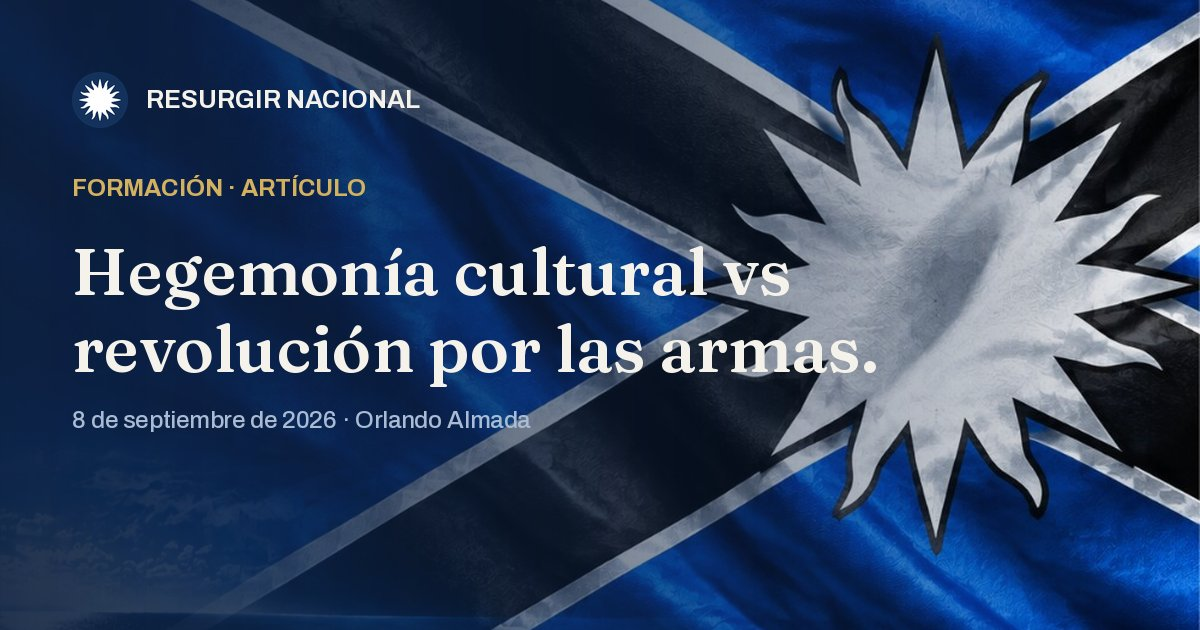
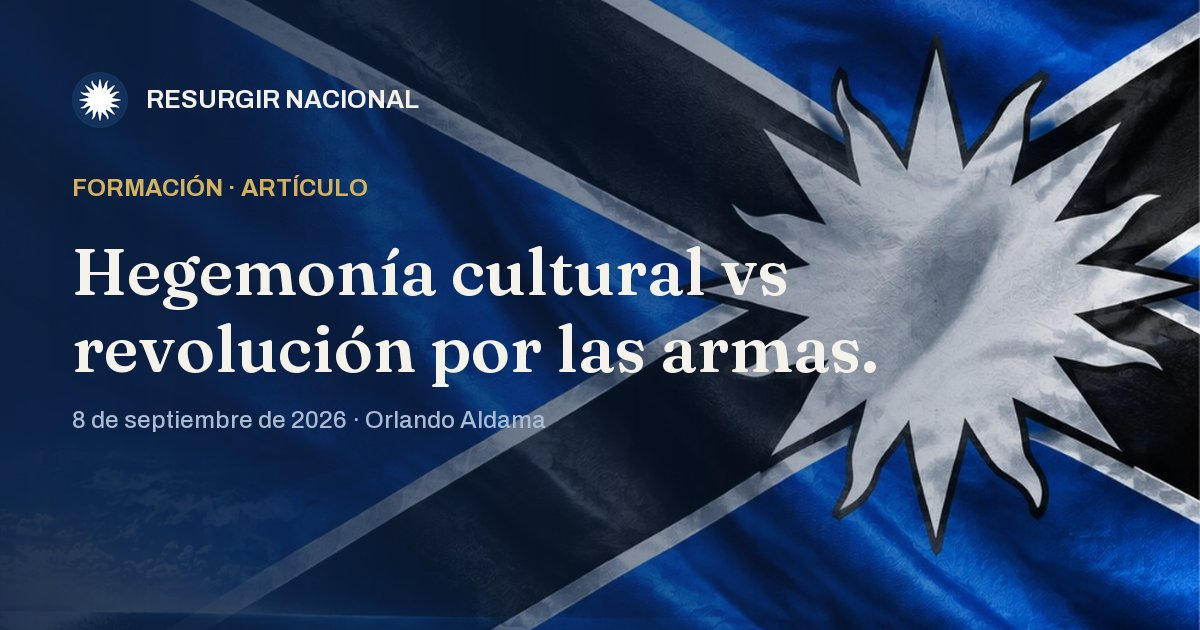
Formación: corrige el apellido del autor (Orlando Aldama) en dos artículos

diff --git a/articulos.html b/articulos.html
@@ -443,13 +443,13 @@
           <a class="art-row" href="fundamentos-politicos.html" data-s="Fundamentos de Política Sobre los fundamentos de la Política Denes Martos"><span class="art-row__date">13 sep 2026</span><span class="art-row__title">Fundamentos de Política</span><span class="art-row__sum">Sobre los fundamentos de la Política</span></a>
           <a class="art-row" href="sobre-el-espiritu-del-fascismo.html" data-s="La ideología fascista y el mundo académico. Sobre la visión del fascismo en el mundo académico. Carlos Videla"><span class="art-row__date">13 sep 2026</span><span class="art-row__title">La ideología fascista y el mundo académico.</span><span class="art-row__sum">Sobre la visión del fascismo en el mundo académico.</span></a>
           <a class="art-row" href="sobre-stalin-y-hitler.html" data-s="Hitler, Stalin y la segunda guerra mundial... Sobre el trasfondo del inicio de la guerra entre Stalin y Hitler. Denes Martos"><span class="art-row__date">13 sep 2026</span><span class="art-row__title">Hitler, Stalin y la segunda guerra mundial...</span><span class="art-row__sum">Sobre el trasfondo del inicio de la guerra entre Stalin y Hitler.</span></a>
-          <a class="art-row" href="hegemonia-cultural-uruguay.html" data-s="Hegemonía cultural vs revolución por las armas. El caos político que ves en universidades, en redes sociales, en reuniones de trabajo no es histeria colectiva. No es una generación de jóvenes que perdió la cabeza. No es espontáneo. Es protocolo. Está en un libro. Fue escrito en 1971 y quien lo escribió te explicó el sistema completo antes de morir. Orlando Almada"><span class="art-row__date">8 sep 2026</span><span class="art-row__title">Hegemonía cultural vs revolución por las armas.</span><span class="art-row__sum">El caos político que ves en universidades, en redes sociales, en reuniones de trabajo no es histeria colectiva. No es una generación de jóvenes que perdió la cabeza. No es espontáneo. Es protocolo. Está en un libro. Fue escrito en 1971 y quien lo escribió te explicó el sistema completo antes de morir.</span></a>
+          <a class="art-row" href="hegemonia-cultural-uruguay.html" data-s="Hegemonía cultural vs revolución por las armas. El caos político que ves en universidades, en redes sociales, en reuniones de trabajo no es histeria colectiva. No es una generación de jóvenes que perdió la cabeza. No es espontáneo. Es protocolo. Está en un libro. Fue escrito en 1971 y quien lo escribió te explicó el sistema completo antes de morir. Orlando Aldama"><span class="art-row__date">8 sep 2026</span><span class="art-row__title">Hegemonía cultural vs revolución por las armas.</span><span class="art-row__sum">El caos político que ves en universidades, en redes sociales, en reuniones de trabajo no es histeria colectiva. No es una generación de jóvenes que perdió la cabeza. No es espontáneo. Es protocolo. Está en un libro. Fue escrito en 1971 y quien lo escribió te explicó el sistema completo antes de morir.</span></a>
           <a class="art-row" href="inmigracion-en-uruguay.html" data-s="Sobre la inmigración Sobre el cristianismo y el derecho a la preservación nacional. Juan Hernandorena."><span class="art-row__date">8 sep 2026</span><span class="art-row__title">Sobre la inmigración</span><span class="art-row__sum">Sobre el cristianismo y el derecho a la preservación nacional.</span></a>
           <a class="art-row" href="revisionismo-historico-uruguay.html" data-s="Sobre la Segunda Guerra Mundial... El primero de septiembre se cumplen 85 años del inicio de la Segunda Guerra Mundial. Este hecho y su desenlace -la victoria de los aliados- marcó un derrotero religioso, cultural, político, social y económico que el mundo padece hasta nuestros días. Fue el triunfo de las democracias liberales, masónicas y relativistas; fue el triunfo del comunismo ateo. Fue la “Derrota Mundial”, según trillada y plástica expresión de Don Salvador Borrego. Los perdidosos nacionalismos fueron la expresión de vida postrera, las últimas bocanadas de aire, de Occidente. Tras su hundimiento, éste quedose sin defensas. Al poco tiempo, infiltrada ya desde hace décadas, la Iglesia Católica coronaría su eclipse con el Concilio Vaticano Segundo (1962-1965). Los principios masónicos y liberales penetraron, ya abiertamente, en el propio seno eclesial. Bruno Acosta Pastore"><span class="art-row__date">5 sep 2026</span><span class="art-row__title">Sobre la Segunda Guerra Mundial...</span><span class="art-row__sum">El primero de septiembre se cumplen 85 años del inicio de la Segunda Guerra Mundial. Este hecho y su desenlace -la victoria de los aliados- marcó un derrotero religioso, cultural, político, social y económico que el mundo padece hasta nuestros días. Fue el triunfo de las democracias liberales, masónicas y relativistas; fue el triunfo del comunismo ateo. Fue la “Derrota Mundial”, según trillada y plástica expresión de Don Salvador Borrego. Los perdidosos nacionalismos fueron la expresión de vida postrera, las últimas bocanadas de aire, de Occidente. Tras su hundimiento, éste quedose sin defensas. Al poco tiempo, infiltrada ya desde hace décadas, la Iglesia Católica coronaría su eclipse con el Concilio Vaticano Segundo (1962-1965). Los principios masónicos y liberales penetraron, ya abiertamente, en el propio seno eclesial.</span></a>
           <a class="art-row" href="izquierda-y-derecha-en-uruguay.html" data-s="Más allá de la izquierda y la derecha. Durante la contienda electoral la simplificación es la norma. El énfasis en el marketing y la ingeniería electoral busca situarnos por fuera del debate de ideas. Mediante la construcción de narrativas que priorizan la identificación emocional frente al debate racional se asumen determinadas categorías, que en muchos casos pueden ser, en realidad, más iguales de lo que parecen absolutamente inválidas. Este trabajo pretende ser un aporte que complejiza un espacio común en el discurso político: el de las categorías de izquierda y derecha. Facundo Cuadro."><span class="art-row__date">4 sep 2026</span><span class="art-row__title">Más allá de la izquierda y la derecha.</span><span class="art-row__sum">Durante la contienda electoral la simplificación es la norma. El énfasis en el marketing y la ingeniería electoral busca situarnos por fuera del debate de ideas. Mediante la construcción de narrativas que priorizan la identificación emocional frente al debate racional se asumen determinadas categorías, que en muchos casos pueden ser, en realidad, más iguales de lo que parecen absolutamente inválidas. Este trabajo pretende ser un aporte que complejiza un espacio común en el discurso político: el de las categorías de izquierda y derecha.</span></a>
           <a class="art-row" href="gabriel-terra-revolucion-de-marzo.html" data-s="Gabriel Terra: Jefe de la Revolución de Marzo. La tradición es la memoria de los pueblos y siendo la memoria definida como la capacidad de almacenar, codificar y recuperar información, es evidente que la salud de un pueblo se puede evaluar en su memoria colectiva, sus tradiciones y ritos. Esta redacción es una expresión de la conmemoración de los héroes que nos precedieron en el camino recorrido por nuestro mundo y nuestro pueblo, aquellos que lideraron los destinos de la Nación Oriental tras la Revolución de Marzo, conduciéndola a su época de mayor esplendor hasta el presente. Nacionalista en lucha."><span class="art-row__date">3 sep 2026</span><span class="art-row__title">Gabriel Terra: Jefe de la Revolución de Marzo.</span><span class="art-row__sum">La tradición es la memoria de los pueblos y siendo la memoria definida como la capacidad de almacenar, codificar y recuperar información, es evidente que la salud de un pueblo se puede evaluar en su memoria colectiva, sus tradiciones y ritos. Esta redacción es una expresión de la conmemoración de los héroes que nos precedieron en el camino recorrido por nuestro mundo y nuestro pueblo, aquellos que lideraron los destinos de la Nación Oriental tras la Revolución de Marzo, conduciéndola a su época de mayor esplendor hasta el presente.</span></a>
           <a class="art-row" href="el-aborto-en-uruguay.html" data-s="Aborto, el grito silenciado del Uruguay. Uruguay legalizó el aborto hablando de libertad; una libertad que tuvo el costo de conducirnos a ser uno de los países con menos nacimientos de América. Bajo el argumento del progreso, la cuestión respecto al aborto se adentró en la conciencia de los uruguayos a tal punto que hoy ir contra esta práctica es visto como algo digno de una persona que opta por el atraso. Pablo Carrasco"><span class="art-row__date">2 sep 2026</span><span class="art-row__title">Aborto, el grito silenciado del Uruguay.</span><span class="art-row__sum">Uruguay legalizó el aborto hablando de libertad; una libertad que tuvo el costo de conducirnos a ser uno de los países con menos nacimientos de América. Bajo el argumento del progreso, la cuestión respecto al aborto se adentró en la conciencia de los uruguayos a tal punto que hoy ir contra esta práctica es visto como algo digno de una persona que opta por el atraso.</span></a>
-          <a class="art-row" href="patriotismo-en-uruguay.html" data-s="Resignificación de los valores patrióticos. La resignificación de los valores patrióticos a menudo es percibida como un proceso de denigración. Los símbolos, rituales y narrativas que históricamente han cimentado el sentimiento de pertenencia a una nación, como el himno, la bandera, los héroes nacionales y la historia compartida son hoy objeto de un intenso escrutinio crítico. Orlando Almada."><span class="art-row__date">2 sep 2026</span><span class="art-row__title">Resignificación de los valores patrióticos.</span><span class="art-row__sum">La resignificación de los valores patrióticos a menudo es percibida como un proceso de denigración. Los símbolos, rituales y narrativas que históricamente han cimentado el sentimiento de pertenencia a una nación, como el himno, la bandera, los héroes nacionales y la historia compartida son hoy objeto de un intenso escrutinio crítico.</span></a>
+          <a class="art-row" href="patriotismo-en-uruguay.html" data-s="Resignificación de los valores patrióticos. La resignificación de los valores patrióticos a menudo es percibida como un proceso de denigración. Los símbolos, rituales y narrativas que históricamente han cimentado el sentimiento de pertenencia a una nación, como el himno, la bandera, los héroes nacionales y la historia compartida son hoy objeto de un intenso escrutinio crítico. Orlando Aldama."><span class="art-row__date">2 sep 2026</span><span class="art-row__title">Resignificación de los valores patrióticos.</span><span class="art-row__sum">La resignificación de los valores patrióticos a menudo es percibida como un proceso de denigración. Los símbolos, rituales y narrativas que históricamente han cimentado el sentimiento de pertenencia a una nación, como el himno, la bandera, los héroes nacionales y la historia compartida son hoy objeto de un intenso escrutinio crítico.</span></a>
           <a class="art-row" href="tercera-posicion-en-uruguay.html" data-s="Fascismo Oriental. Hoy desde nuestra perspectiva de más de 100 años después, y en nuestra nación Uruguay, por supuesto que es una ideología vigente, solamente necesita una adaptación y eso es lo que he teorizado personalmente desde mi punto de vista a nuestro tiempo y país. José Otaiza"><span class="art-row__date">1 sep 2026</span><span class="art-row__title">Fascismo Oriental.</span><span class="art-row__sum">Hoy desde nuestra perspectiva de más de 100 años después, y en nuestra nación Uruguay, por supuesto que es una ideología vigente, solamente necesita una adaptación y eso es lo que he teorizado personalmente desde mi punto de vista a nuestro tiempo y país.</span></a>
         </div>
         <h2 class="art-month" id="m-2026-08">Agosto 2026</h2>

diff --git a/hegemonia-cultural-uruguay.html b/hegemonia-cultural-uruguay.html
@@ -327,7 +327,7 @@
     .art-row__sum { grid-column: 1; }
   }
 </style>
-<script type="application/ld+json">{"@context": "https://schema.org", "@type": "Article", "headline": "Hegemonía cultural vs revolución por las armas.", "description": "El caos político que ves en universidades, en redes sociales, en reuniones de trabajo no es histeria colectiva. No es una generación de jóvenes que perdió la cabeza. No es espontáneo. Es protocolo. Está en un libro. Fue escrito en 1971 y quien lo escribió te explicó el sistema completo antes de morir.", "image": "https://resurgirnacionaluy.org/og/hegemonia-cultural-uruguay.jpg", "mainEntityOfPage": "https://resurgirnacionaluy.org/hegemonia-cultural-uruguay.html", "inLanguage": "es-UY", "author": {"@type": "Person", "name": "Orlando Almada"}, "publisher": {"@type": "Organization", "name": "Resurgir Nacional", "logo": {"@type": "ImageObject", "url": "https://resurgirnacionaluy.org/favicon-192.png"}}, "datePublished": "2026-09-08"}</script>
+<script type="application/ld+json">{"@context": "https://schema.org", "@type": "Article", "headline": "Hegemonía cultural vs revolución por las armas.", "description": "El caos político que ves en universidades, en redes sociales, en reuniones de trabajo no es histeria colectiva. No es una generación de jóvenes que perdió la cabeza. No es espontáneo. Es protocolo. Está en un libro. Fue escrito en 1971 y quien lo escribió te explicó el sistema completo antes de morir.", "image": "https://resurgirnacionaluy.org/og/hegemonia-cultural-uruguay.jpg", "mainEntityOfPage": "https://resurgirnacionaluy.org/hegemonia-cultural-uruguay.html", "inLanguage": "es-UY", "author": {"@type": "Person", "name": "Orlando Aldama"}, "publisher": {"@type": "Organization", "name": "Resurgir Nacional", "logo": {"@type": "ImageObject", "url": "https://resurgirnacionaluy.org/favicon-192.png"}}, "datePublished": "2026-09-08"}</script>
 </head>
 <body style="margin:0">
 
@@ -408,12 +408,12 @@
     <section>
       <span class="label">Formación · Artículo</span>
       <h1>Hegemonía cultural vs revolución por las armas.</h1>
-      <p class="doc-lead">8 de septiembre de 2026 · Orlando Almada</p>
+      <p class="doc-lead">8 de septiembre de 2026 · Orlando Aldama</p>
       <button type="button" class="share-btn" aria-label="Compartir este artículo"><svg viewBox="0 0 24 24" aria-hidden="true"><path d="M18 16.08c-.76 0-1.44.3-1.96.77L8.91 12.7c.05-.23.09-.46.09-.7s-.04-.47-.09-.7l7.05-4.11c.54.5 1.25.81 2.04.81 1.66 0 3-1.34 3-3s-1.34-3-3-3-3 1.34-3 3c0 .24.04.47.09.7L8.04 9.81C7.5 9.31 6.79 9 6 9c-1.66 0-3 1.34-3 3s1.34 3 3 3c.79 0 1.5-.31 2.04-.81l7.12 4.16c-.05.21-.08.43-.08.65 0 1.61 1.31 2.92 2.92 2.92 1.61 0 2.92-1.31 2.92-2.92s-1.31-2.92-2.92-2.92z"/></svg>Compartir</button>
     </section>
     <section>
       <div class="prose article-body">
-<p>(De entre los muchos materiales que recibimos de amigos o colaboradores, compartimos este texto perteneciente a Orlando Almada, con su debida autorización)</p>
+<p>(De entre los muchos materiales que recibimos de amigos o colaboradores, compartimos este texto perteneciente a Orlando Aldama, con su debida autorización)</p>
 <p>El caos político que ves en universidades, en redes sociales, en reuniones de trabajo no es histeria colectiva. No es una generación de jóvenes que perdió la cabeza. No es espontáneo. Es protocolo. Está en un libro. Fue escrito en 1971 y quien lo escribió te explicó el sistema completo antes de morir.</p>
 <p>Probablemente conoces la sensación: estás en una reunión, en clase, en una cena y de pronto alguien te señala a ti, no al argumento que hiciste, a ti. Y la conversación deja de ser una discusión de ideas para convertirse en un juicio moral sobre tu persona. O ves cómo una figura pública es destruida en cuestión de horas; primero el ataque, luego el coro, luego el silencio de quienes sabían que el ataque era injusto, pero decidieron no decir nada. O noticias de que una institución que funcionaba durante décadas —una escuela, un departamento, una empresa— de pronto emite comunicados que parecen escritos por el mismo departamento de recursos humanos ideológico en todas partes.</p>
 <p>Lo que experimentas como caos tiene arquitecto; lo que parece histeria tiene reglas; lo que parece emergencia moral tiene estrategia. Hoy vas a conocer el manual, quién lo escribió, quién lo estudió, cuáles son las reglas exactas y —esto es lo que cambia la ecuación— cómo responder a cada una. Al terminar este video vas a poder identificar qué táctica te están aplicando en el momento en que ocurre. Eso no te hace invulnerable, pero te saca del lugar más peligroso en que puedes estar: el de alguien que no sabe que hay un sistema operando sobre él.</p>
@@ -444,7 +444,7 @@
 <p>El ridículo que no genera indignación es ridículo inerte. La personalización que se nombra en voz alta pierde su efecto paralizante. La amenaza que se evalúa serenamente, en lugar de temerse a ciegas, pierde su poder de autocensura. No vas a ganar cada conversación con esto, no todo debate se gana en tiempo real, pero sí vas a dejar de experimentar la presión ideológica como fenómeno atmosférico incomprensible y empezar a verla como lo que es: un conjunto de tácticas con nombre, origen y mecanismo conocido.</p>
 <p>Scruton pasó décadas tratando de recuperar el lenguaje, de devolver al debate público las palabras que el sistema había capturado o ridiculizado hasta volverlas impronunciables. Esta recuperación comienza por entender qué fue lo que se perdió y cómo se perdió. Hoy tienes una parte de esa historia. La pregunta que queda y que no tiene respuesta fácil es esta: si el sistema tardó 50 años en producir el oppositional consensus que conocemos, ¿qué se necesita para revertirlo? ¿Basta conocer las tácticas o hace falta algo más profundo, una reconstrucción de las instituciones que el sistema tomó, no solo una resistencia táctica a quienes las operan? Eso es para el próximo video.</p>
 <p>Si lo que vimos aquí te movió, lo que está en la descripción va más profundo. El Atlas de pensadores que tenemos disponible cubre a Alinsky en detalle: las 13 tácticas completas con sus contextos históricos, la genealogía de cómo llegaron al wokeismo contemporáneo y las contramedidas desarrolladas para cada una.</p>
-<p>-Orlando Almada.</p>
+<p>-Orlando Aldama.</p>
       </div>
       <p style="margin-top:2.5rem"><a href="cultura-nacional-uruguaya.html">← Volver a Formación</a></p>
     </section>

diff --git a/patriotismo-en-uruguay.html b/patriotismo-en-uruguay.html
@@ -327,7 +327,7 @@
     .art-row__sum { grid-column: 1; }
   }
 </style>
-<script type="application/ld+json">{"@context": "https://schema.org", "@type": "Article", "headline": "Resignificación de los valores patrióticos.", "description": "La resignificación de los valores patrióticos a menudo es percibida como un proceso de denigración. Los símbolos, rituales y narrativas que históricamente han cimentado el sentimiento de pertenencia a una nación, como el himno, la bandera, los héroes nacionales y la historia compartida son hoy objeto de un intenso escrutinio crítico.", "image": "https://resurgirnacionaluy.org/og/patriotismo-en-uruguay.jpg", "mainEntityOfPage": "https://resurgirnacionaluy.org/patriotismo-en-uruguay.html", "inLanguage": "es-UY", "author": {"@type": "Person", "name": "Orlando Almada."}, "publisher": {"@type": "Organization", "name": "Resurgir Nacional", "logo": {"@type": "ImageObject", "url": "https://resurgirnacionaluy.org/favicon-192.png"}}, "datePublished": "2026-09-02"}</script>
+<script type="application/ld+json">{"@context": "https://schema.org", "@type": "Article", "headline": "Resignificación de los valores patrióticos.", "description": "La resignificación de los valores patrióticos a menudo es percibida como un proceso de denigración. Los símbolos, rituales y narrativas que históricamente han cimentado el sentimiento de pertenencia a una nación, como el himno, la bandera, los héroes nacionales y la historia compartida son hoy objeto de un intenso escrutinio crítico.", "image": "https://resurgirnacionaluy.org/og/patriotismo-en-uruguay.jpg", "mainEntityOfPage": "https://resurgirnacionaluy.org/patriotismo-en-uruguay.html", "inLanguage": "es-UY", "author": {"@type": "Person", "name": "Orlando Aldama."}, "publisher": {"@type": "Organization", "name": "Resurgir Nacional", "logo": {"@type": "ImageObject", "url": "https://resurgirnacionaluy.org/favicon-192.png"}}, "datePublished": "2026-09-02"}</script>
 </head>
 <body style="margin:0">
 
@@ -408,12 +408,12 @@
     <section>
       <span class="label">Formación · Artículo</span>
       <h1>Resignificación de los valores patrióticos.</h1>
-      <p class="doc-lead">2 de septiembre de 2026 · Orlando Almada.</p>
+      <p class="doc-lead">2 de septiembre de 2026 · Orlando Aldama.</p>
       <button type="button" class="share-btn" aria-label="Compartir este artículo"><svg viewBox="0 0 24 24" aria-hidden="true"><path d="M18 16.08c-.76 0-1.44.3-1.96.77L8.91 12.7c.05-.23.09-.46.09-.7s-.04-.47-.09-.7l7.05-4.11c.54.5 1.25.81 2.04.81 1.66 0 3-1.34 3-3s-1.34-3-3-3-3 1.34-3 3c0 .24.04.47.09.7L8.04 9.81C7.5 9.31 6.79 9 6 9c-1.66 0-3 1.34-3 3s1.34 3 3 3c.79 0 1.5-.31 2.04-.81l7.12 4.16c-.05.21-.08.43-.08.65 0 1.61 1.31 2.92 2.92 2.92 1.61 0 2.92-1.31 2.92-2.92s-1.31-2.92-2.92-2.92z"/></svg>Compartir</button>
     </section>
     <section>
       <div class="prose article-body">
-<p>(De entre los muchos materiales que recibimos de amigos o colaboradores, compartimos este texto perteneciente a Orlando Almada, con su debida autorización)</p>
+<p>(De entre los muchos materiales que recibimos de amigos o colaboradores, compartimos este texto perteneciente a Orlando Aldama, con su debida autorización)</p>
 <p>La resignificación de los valores patrióticos a menudo es percibida como un proceso de denigración. Los símbolos, rituales y narrativas que históricamente han cimentado el sentimiento de pertenencia a una nación, como el himno, la bandera, los héroes nacionales y la historia compartida son hoy objeto de un intenso escrutinio crítico.</p>
 <p>Esta crítica surge de la reevaluación de los fundamentos históricos de la nación-estado, influenciados por una filosofía política que no ve en estos valores algo superior a resaltar.</p>
 <p>PERSPECTIVA CRÍTICA: Desde una perspectiva filosófica, la denigración ocurre cuando la narrativa patriótica es vista como una herramienta de control, opresión o de justificación de actos violentos del pasado (colonialismo, guerras de conquista). </p>
@@ -435,7 +435,7 @@
 <p>Conjugando de esta forma, sensible y sutilmente el soporte tangible del principio espíritu patriótico.</p>
 <p>Por eso la PATRIA… es algo más que individuos y voluntades.</p>
 <p>La patria es en los hechos, el fruto de la ofrenda que cada individuo genera, a cada paso, a cada día, cuando en un MISMO SENTIDO y hacia un MISMO DESTINO proyecta el espíritu singular que lo distingue…</p>
-<p>-Orlando Almada.</p>
+<p>-Orlando Aldama.</p>
 <p>(Publicación original en la revista Opinar, Núm. 795, lunes 22 de septiembre de 2025, Edición digital)</p>
       </div>
       <p style="margin-top:2.5rem"><a href="cultura-nacional-uruguaya.html">← Volver a Formación</a></p>

diff --git a/content/formacion/patriotismo-en-uruguay.md b/content/formacion/patriotismo-en-uruguay.md
@@ -2,14 +2,14 @@
 title: Resignificación de los valores patrióticos.
 slug: patriotismo-en-uruguay
 date: 2026-09-02
-author: Orlando Almada.
+author: Orlando Aldama.
 tema: "Cultura y sociedad"
 summary: La resignificación de los valores patrióticos a menudo es percibida como un proceso de denigración. Los símbolos, rituales y narrativas que históricamente han cimentado el sentimiento de pertenencia a una nación, como el himno, la bandera, los héroes nacionales y la historia compartida son hoy objeto de un intenso escrutinio crítico.
 source_url: ''
 draft: false
 ---
 
-(De entre los muchos materiales que recibimos de amigos o colaboradores, compartimos este texto perteneciente a Orlando Almada, con su debida autorización)
+(De entre los muchos materiales que recibimos de amigos o colaboradores, compartimos este texto perteneciente a Orlando Aldama, con su debida autorización)
 
 La resignificación de los valores patrióticos a menudo es percibida como un proceso de denigración. Los símbolos, rituales y narrativas que históricamente han cimentado el sentimiento de pertenencia a una nación, como el himno, la bandera, los héroes nacionales y la historia compartida son hoy objeto de un intenso escrutinio crítico.
 
@@ -53,6 +53,6 @@ Por eso la PATRIA... es algo más que individuos y voluntades.
 
 La patria es en los hechos, el fruto de la ofrenda que cada individuo genera, a cada paso, a cada día, cuando en un MISMO SENTIDO y hacia un MISMO DESTINO proyecta el espíritu singular que lo distingue...
 
--Orlando Almada.
+-Orlando Aldama.
 
 (Publicación original en la revista Opinar, Núm. 795, lunes 22 de septiembre de 2025, Edición digital)

diff --git a/content/formacion/hegemonia-cultural-uruguay.md b/content/formacion/hegemonia-cultural-uruguay.md
@@ -2,14 +2,14 @@
 title: Hegemonía cultural vs revolución por las armas.
 slug: hegemonia-cultural-uruguay
 date: 2026-09-08
-author: Orlando Almada
+author: Orlando Aldama
 tema: "Cultura y sociedad"
 summary: El caos político que ves en universidades, en redes sociales, en reuniones de trabajo no es histeria colectiva. No es una generación de jóvenes que perdió la cabeza. No es espontáneo. Es protocolo. Está en un libro. Fue escrito en 1971 y quien lo escribió te explicó el sistema completo antes de morir.
 source_url: ''
 draft: false
 ---
 
-(De entre los muchos materiales que recibimos de amigos o colaboradores, compartimos este texto perteneciente a Orlando Almada, con su debida autorización)
+(De entre los muchos materiales que recibimos de amigos o colaboradores, compartimos este texto perteneciente a Orlando Aldama, con su debida autorización)
 
 El caos político que ves en universidades, en redes sociales, en reuniones de trabajo no es histeria colectiva. No es una generación de jóvenes que perdió la cabeza. No es espontáneo. Es protocolo. Está en un libro. Fue escrito en 1971 y quien lo escribió te explicó el sistema completo antes de morir.
 
@@ -71,4 +71,4 @@ Scruton pasó décadas tratando de recuperar el lenguaje, de devolver al debate 
 
 Si lo que vimos aquí te movió, lo que está en la descripción va más profundo. El Atlas de pensadores que tenemos disponible cubre a Alinsky en detalle: las 13 tácticas completas con sus contextos históricos, la genealogía de cómo llegaron al wokeismo contemporáneo y las contramedidas desarrolladas para cada una.
 
--Orlando Almada.
+-Orlando Aldama.
